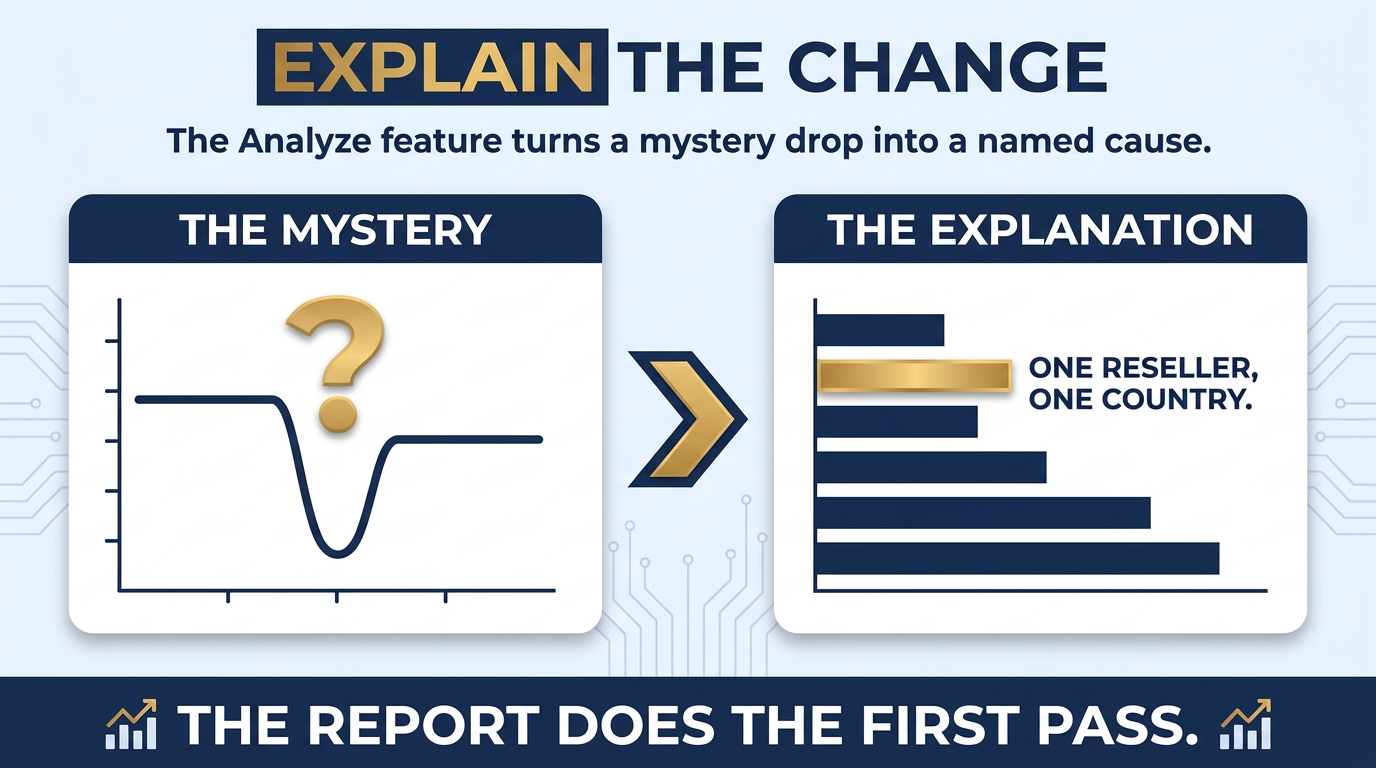
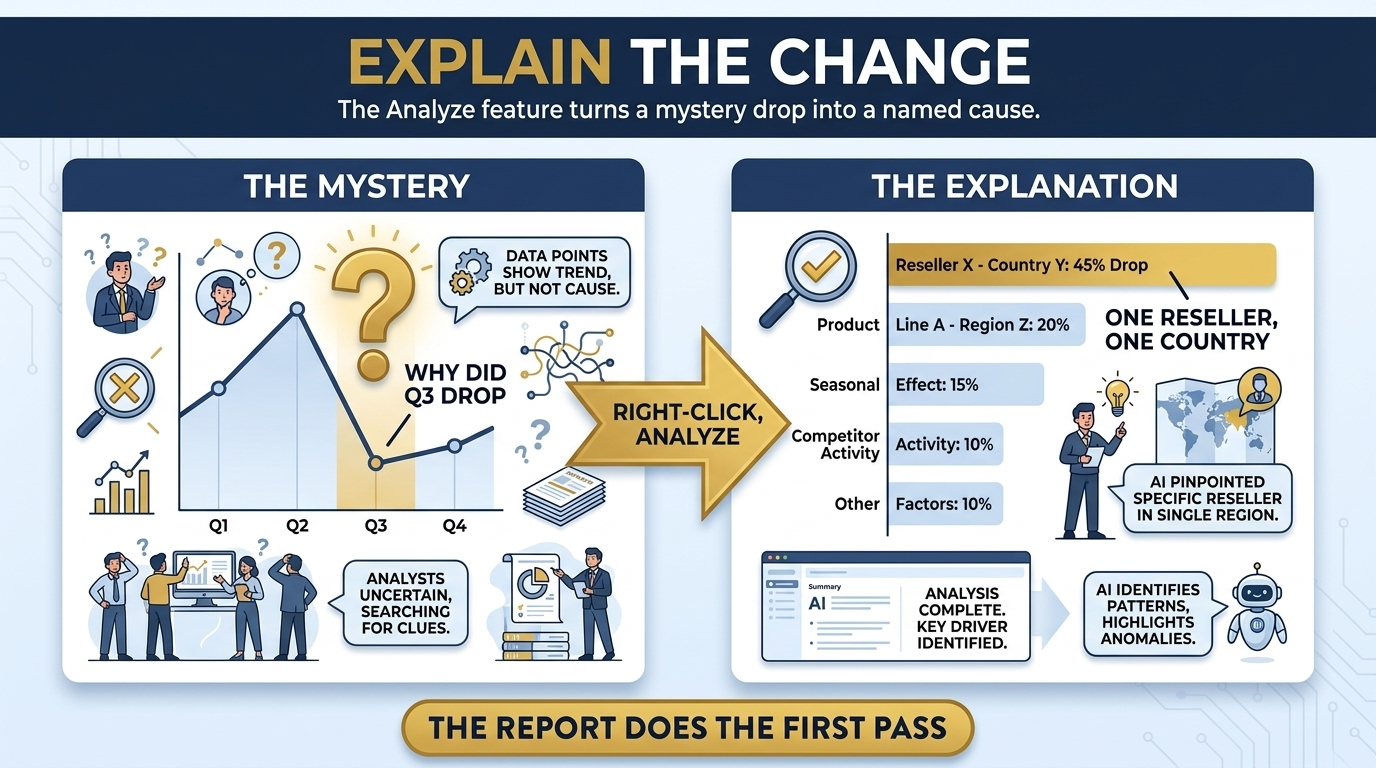
Restyle Chapter 5 inner figures as ai4educators-style master infographics
Rebuild Chapter 5's inner figures in the dense, richly illustrated
master-infographic style: explain the change (before/after of a mystery
drop and its named cause), two places to calculate (asymmetric spatial
diagram of model vs visual), and from data to insight (ascending
staircase). Each chapter's four figures use four distinct compositions.

- Figure HTML-comment prompt blocks updated to match.
- Builds clean with no MyST warnings.

diff --git a/chapters/ch05-analytics-statistics-visual-calculations.md b/chapters/ch05-analytics-statistics-visual-calculations.md
@@ -100,9 +100,10 @@ NANO BANANA PRO — CHAPTER 5 FIGURE 2 (concept infographic)
 File: images/ch05/fig-5-2-explain-the-change.png
 Title: Explain the Change
 Concept: The Analyze feature turns an unexplained drop into a named cause.
-Archetype: Before/after — two side-by-side panels with a central gold arrow.
-Reference: images/_style-reference/fig-3-2-two-reactions.png
-Labels: left panel "THE MYSTERY" (a dipping line chart under a question mark); right panel "THE EXPLANATION" (a ranked bar chart, one bar highlighted, "ONE RESELLER, ONE COUNTRY"); footer "THE REPORT DOES THE FIRST PASS".
+Archetype: Rich before/after — two illustrated panels with annotations, central "RIGHT-CLICK, ANALYZE" arrow; ai4educators master-infographic style, navy/gold.
+Reference (composition): ../../.ref-ai4ed/ai4ed-ch01-fig-tuesdays.png
+Reference (palette): images/ch05/fig-5-1-ch5-at-a-glance.png
+Labels: left panel THE MYSTERY (a dipping line chart, a question mark, WHY DID Q3 DROP); right panel THE EXPLANATION (a ranked factor list, top factor highlighted, ONE RESELLER, ONE COUNTRY); banner "THE REPORT DOES THE FIRST PASS".
 Palette: navy #1B2A47, gold #C9A23A, white / pale-blue background.
 -->
 
@@ -302,9 +303,10 @@ NANO BANANA PRO — CHAPTER 5 FIGURE 3 (concept infographic)
 File: images/ch05/fig-5-3-measure-vs-visual-calc.png
 Title: Two Places to Calculate
 Concept: A measure lives in the model and is reused across many visuals; a visual calculation stays on one visual.
-Archetype: Asymmetric spatial diagram — a broad connected "model" zone vs a single small "visual" panel.
-Reference: images/_style-reference/fig-3-2-two-reactions.png
-Labels: left zone "THE MODEL" holding a MEASURE badge with gold connector lines fanning to four mini-charts, caption "REUSED EVERYWHERE"; right panel "ONE VISUAL" holding a VISUAL CALCULATION badge in a row grid, caption "LOCAL TO ONE VISUAL"; footer "PICK BY WHERE THE ANSWER MUST LIVE".
+Archetype: Rich asymmetric spatial diagram — a broad connected "model" zone vs a single small "visual" panel; ai4educators master-infographic style, navy/gold.
+Reference (composition): ../../.ref-ai4ed/ai4ed-ch06-opener.png
+Reference (palette): images/ch05/fig-5-1-ch5-at-a-glance.png
+Labels: left zone "THE MODEL" holding a MEASURE badge with gold connector lines fanning to four mini-charts, caption "REUSED EVERYWHERE"; right panel "ONE VISUAL" holding a VISUAL CALCULATION badge in a row grid, caption "LOCAL TO ONE VISUAL"; banner "PICK BY WHERE THE ANSWER MUST LIVE".
 Palette: navy #1B2A47, gold #C9A23A, white / pale-blue background.
 -->
 
@@ -352,9 +354,10 @@ NANO BANANA PRO — CHAPTER 5 FIGURE 4 (synthesis infographic)
 File: images/ch05/fig-5-4-data-to-insight.png
 Title: From Data to Insight
 Concept: The chapter's features as an ascending staircase of analytical value, from showing a number to narrating the story.
-Archetype: Ascending staircase — five steps climbing diagonally from lower left to upper right (deliberately NOT a stacked pyramid, to differ from Ch4 fig-4-2).
-Reference: images/_style-reference/fig-3-2-two-reactions.png
-Labels: steps bottom to top SHOW THE NUMBER, ADD A REFERENCE LINE, EXPLAIN THE CHANGE, FORECAST FORWARD, NARRATE THE STORY; diagonal arrow "MORE INSIGHT"; footer "A REPORT THAT ANALYZES, NOT ONLY DISPLAYS".
+Archetype: Rich ascending staircase — five illustrated steps climbing diagonally from lower left to upper right (deliberately NOT a stacked pyramid, to differ from Ch4 fig-4-2); ai4educators master-infographic style, navy/gold.
+Reference (composition): ../../.ref-ai4ed/ai4ed-ch01-fig-struggle.png
+Reference (palette): images/ch05/fig-5-1-ch5-at-a-glance.png
+Labels: steps bottom to top SHOW THE NUMBER, ADD A REFERENCE LINE, EXPLAIN THE CHANGE, FORECAST FORWARD, NARRATE THE STORY; diagonal arrow "MORE INSIGHT"; banner "A REPORT THAT ANALYZES, NOT ONLY DISPLAYS".
 Palette: navy #1B2A47, gold #C9A23A, white / pale-blue background.
 -->
 
